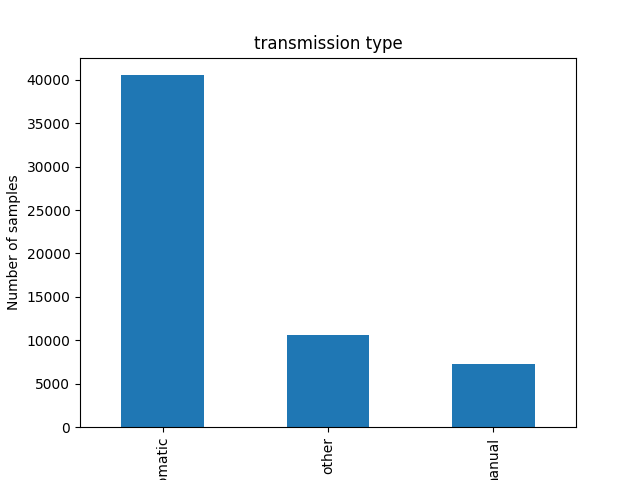
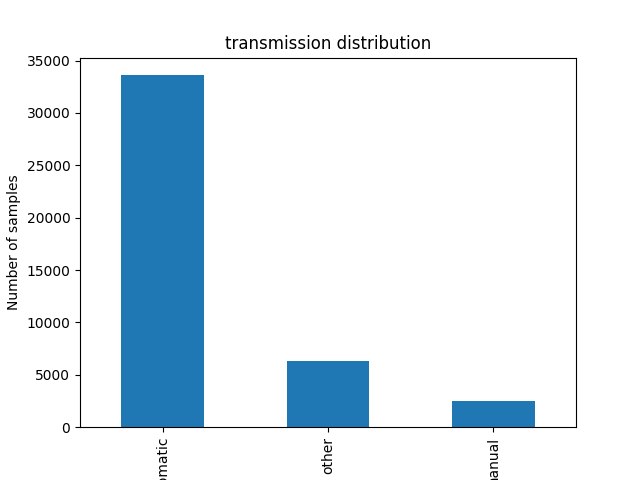
Added functions for scalability

diff --git a/process_dataset.py b/process_dataset.py
@@ -2,6 +2,37 @@ import pandas as pd
 import matplotlib.pyplot as plt
 import seaborn as sns
 import numpy as np
+from sklearn.preprocessing import MinMaxScaler
+
+
+def plot_text_field(df,name):
+    plt.figure()
+    df[name].value_counts().plot(kind="bar")  
+    plt.title(name+" distribution")
+    plt.xlabel(name+" type")
+    plt.ylabel("Number of samples")  
+    plt.savefig("./img/"+name+".png",format='png')
+    # plt.show()
+    plt.close()
+    
+def encode_and_fill_text(df,name):
+    df[name] = df[name].fillna(df[name].mode()[0])
+    df = pd.get_dummies(df, columns=[name])
+    
+def plot_numeric_field(df,name):
+    plt.figure()
+    df[name].hist(bins=10)
+    plt.xlabel(name)
+    plt.ylabel("Frequency")
+    plt.title("Histogram of "+name)
+    plt.grid(False)
+    plt.savefig("./img/"+name+".png", format="png")
+    plt.close()
+    
+    
+
+    
+
 
 df = pd.read_csv("vehicles_trimmed.csv")
 # print(df.head())
@@ -16,40 +47,18 @@ df = df.drop("image_url",axis=1)
 df = df.drop("VIN",axis=1)
 df = df.drop("region_url",axis=1)
 
-
 df = df.drop("county",axis=1)
 
-df["condition"].value_counts().plot(kind="bar")
-plt.title("Condition distribution")
-plt.xlabel("Condition type")
-plt.ylabel("Number of samples")
 
-plt.savefig('condition.png',format='png')
-# plt.show()
-
+plot_text_field(df,"condition")
 df = df.drop("condition",axis=1)
 
-df["cylinders"].value_counts().plot(kind="bar")
-plt.title("Cylinders distribution")
-plt.xlabel("Cylinders")
-plt.ylabel("Number of samples")
-
-plt.savefig('./img/cylinder.png',format='png')
-# plt.show()
-
+plot_text_field(df,"cylinders")
 df = df.drop("cylinders",axis=1)
 
 
-
-df["drive"].value_counts().plot(kind="bar")
-plt.title("Drive distribution")
-plt.xlabel("Drive")
-plt.ylabel("Number of samples")
-
-plt.savefig('./img/drive.png',format='png')
-# plt.show()
-
-# print(df["drive"].describe())
+plot_text_field(df,"drive")
+print(df["drive"].describe())
 
 df["drive"] = df["drive"].fillna(df["drive"].mode()[0])
 df = pd.get_dummies(df, columns=["drive"])
@@ -59,15 +68,8 @@ df = pd.get_dummies(df, columns=["drive"])
 
 df = df.drop("region",axis=1)
 
-df["state"].value_counts().plot(kind="bar")
-plt.title("State")
-plt.xlabel("State")
-plt.ylabel("Number of samples")
-
-plt.savefig('./img/state.png',format='png')
-# plt.show()
+plot_text_field(df,"state")
 # print(df["state"].describe())
-
 df["state"] = df["state"].astype("category").cat.codes
 
 
@@ -79,55 +81,33 @@ df = df.drop("model",axis=1)
 print(df["title_status"].info())
 print(df["title_status"].nunique())
 
-df["title_status"].value_counts().plot(kind="bar")
-plt.title("Title_status")
-plt.xlabel("Title_status")
-plt.ylabel("Number of samples")
-
-plt.savefig('./img/title.png',format='png')
-# plt.show()
+plot_text_field(df,"title_status")
 
 # print(df["title_status"].describe())
 df["title_status"] = df["title_status"].fillna(df["title_status"].mode()[0])
-
 df["title_status"] = df["title_status"].astype("category").cat.codes
 
 
 # print(df["manufacturer"].describe())
 
-df["manufacturer"].value_counts().plot(kind="bar")
-plt.title("Manufacturer")
-plt.xlabel("Manufacturer")
-plt.ylabel("Number of samples")
-
-plt.savefig('./img/manufacturer.png',format='png')
+plot_text_field(df,"manufacturer")
 
 # print(df["model"].describe())
 
 df["manufacturer"] = df["manufacturer"].fillna(df["manufacturer"].mode()[0])
 df["manufacturer"] = df["manufacturer"].astype("category").cat.codes
 
-
 # print(df["fuel"].describe())
 
-df["fuel"].value_counts().plot(kind="bar")
-plt.title("Fuel type")
-plt.xlabel("Fuel type")
-plt.ylabel("Number of samples")
-plt.savefig('./img/fuel.png',format='png')
+plot_text_field(df,"fuel")
 
 df["fuel"] = df["fuel"].fillna(df["fuel"].mode()[0])
-
 df["fuel"] = df["fuel"].astype("category").cat.codes
 
 
 # print(df["size"].describe())
 
-df["size"].value_counts().plot(kind="bar")
-plt.title("Size type")
-plt.xlabel("Size type")
-plt.ylabel("Number of samples")
-plt.savefig('./img/size.png',format='png')
+plot_text_field(df,"size")
 
 df["size"] = df["size"].fillna(df["size"].mode()[0])
 df["size"] = df["size"].astype("category").cat.codes
@@ -135,94 +115,67 @@ df["size"] = df["size"].astype("category").cat.codes
 
 # print(df["transmission"].describe())
 
-df["transmission"].value_counts().plot(kind="bar")
-plt.title("transmission type")
-plt.xlabel("transmission type")
-plt.ylabel("Number of samples")
-plt.savefig('./img/transmission.png',format='png')
+plot_text_field(df,"transmission")
 
 df["transmission"] = df["transmission"].fillna(df["transmission"].mode()[0])
 df["transmission"] = df["transmission"].astype("category").cat.codes
 
 # print(df["type"].describe())
 
-df["type"].value_counts().plot(kind="bar")
-plt.title("Type")
-plt.xlabel("Type")
-plt.ylabel("Number of samples")
-plt.savefig('./img/type.png',format='png')
+plot_text_field(df,"type")
 
 df["type"] = df["type"].fillna(df["type"].mode()[0])
 df["type"] = df["type"].astype("category").cat.codes
 
 # print(df["paint_color"].describe())
 
-df["paint_color"].value_counts().plot(kind="bar")
-plt.title("paint_color")
-plt.xlabel("paint_color")
-plt.ylabel("Number of samples")
-plt.savefig('./img/paint_color.png',format='png')
+plot_text_field(df,"paint_color")
 
 df["paint_color"] = df["paint_color"].fillna(df["paint_color"].mode()[0])
 df["paint_color"] = df["paint_color"].astype("category").cat.codes
 
 # print(df["year"].head())
 
-plt.figure()
-df["year"].hist(bins=10)
-plt.xlabel("Year")
-plt.ylabel("Frequency")
-plt.title("Histogram of Year")
-plt.grid(False)
-
-plt.savefig("./img/year_hist.png", format="png")
 df['year'] = df['year'].fillna(df['year'].mean()) 
 
 Q1 = df['year'].quantile(0.25)
 Q3 = df['year'].quantile(0.75)
 IQR = Q3 - Q1
-
 lower_bound = Q1 - 1.5 * IQR
 upper_bound = Q3 + 1.5 * IQR
-
 df = df[(df['year'] > lower_bound) & (df['year'] < upper_bound)]
+df["year"] = df["year"].astype(int)
+plot_numeric_field(df,"year")
 
 # print(df["odometer"].describe())
 
+df['odometer'] = df['odometer'].fillna(df['odometer'].mean()) 
 Q1 = df['odometer'].quantile(0.25)
 Q3 = df['odometer'].quantile(0.75)
 IQR = Q3 - Q1
-
 lower_bound = Q1 - 1.5 * IQR
 upper_bound = Q3 + 1.5 * IQR
-
 df = df[(df['odometer'] > lower_bound) & (df['odometer'] < upper_bound)]
+plot_numeric_field(df,"odometer")
 
-plt.figure()
-df["odometer"].hist(bins=1000)
-plt.xlabel("Kms")
-plt.ylabel("Frequency")
-plt.title("Histogram of odometer")
-plt.grid(False)
-
-plt.savefig("./img/odometer.png", format="png")
-df['odometer'] = df['odometer'].fillna(df['odometer'].mean()) 
 
 
 
 # print(df["price"].head())
 # print(df["price"].info())
 # print(df["price"].describe())
-df['price'] = df['price'].fillna(df['price'].mean()) 
 
+df['price'] = df['price'].fillna(df['price'].mean()) 
 Q1 = df['price'].quantile(0.25)
 Q3 = df['price'].quantile(0.75)
 IQR = Q3 - Q1
-
 lower_bound = Q1 - 1.5 * IQR
 upper_bound = Q3 + 1.5 * IQR
-
 df = df[(df['price'] > lower_bound) & (df['price'] < upper_bound)]
+plot_numeric_field(df,"price")
+
+# scaler = MinMaxScaler()
+# df[['price', 'odometer','year']] = scaler.fit_transform(df[['price', 'odometer','year']])
 
 correlation_matrix = df.corr()
 
@@ -231,7 +184,7 @@ sns.heatmap(correlation_matrix, annot=True, cmap='coolwarm', fmt='.2f', linewidt
 plt.savefig("./img/corr.png", format="png")
 
 
-# print(df.info())
+print(df.info())
 # print(df.head())
 
 plt.figure(figsize=(8, 6))  # Set the figure size

diff --git a/train_model.py b/train_model.py
@@ -1,5 +1,5 @@
 from sklearn.model_selection import train_test_split
-from sklearn.metrics import root_mean_squared_error
+from sklearn.metrics import root_mean_squared_error,accuracy_score
 from sklearn.ensemble import RandomForestRegressor
 from sklearn.linear_model import LinearRegression
 import pandas as pd
@@ -19,7 +19,7 @@ print(2)
 y_pred = model.predict(X_test)
 print(3)
 
-accuracy = root_mean_squared_error(y_test, y_pred)
-print(f"Acuratețea modelului de regresie logistică: {accuracy:.2f}")
+accuracy = accuracy_score(y_test, y_pred)
+print(f"Acuratețea modelului de regresie logistică: {accuracy}")
 
 joblib.dump(model,"model2.pk1")
